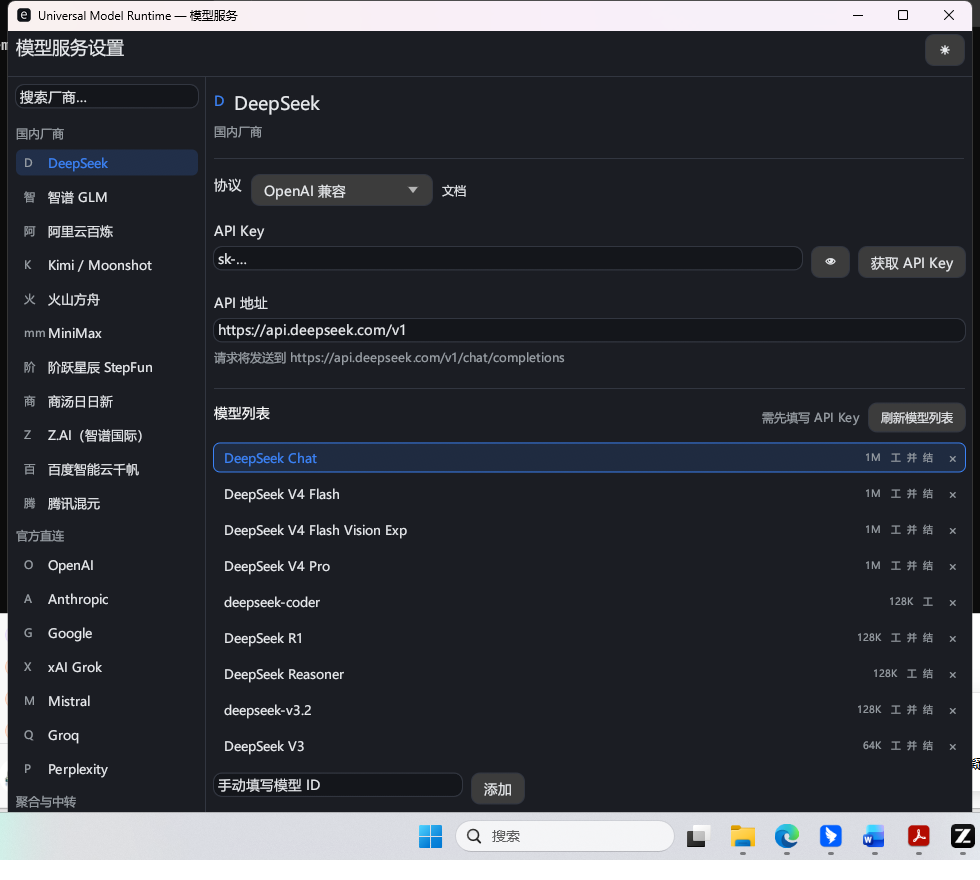
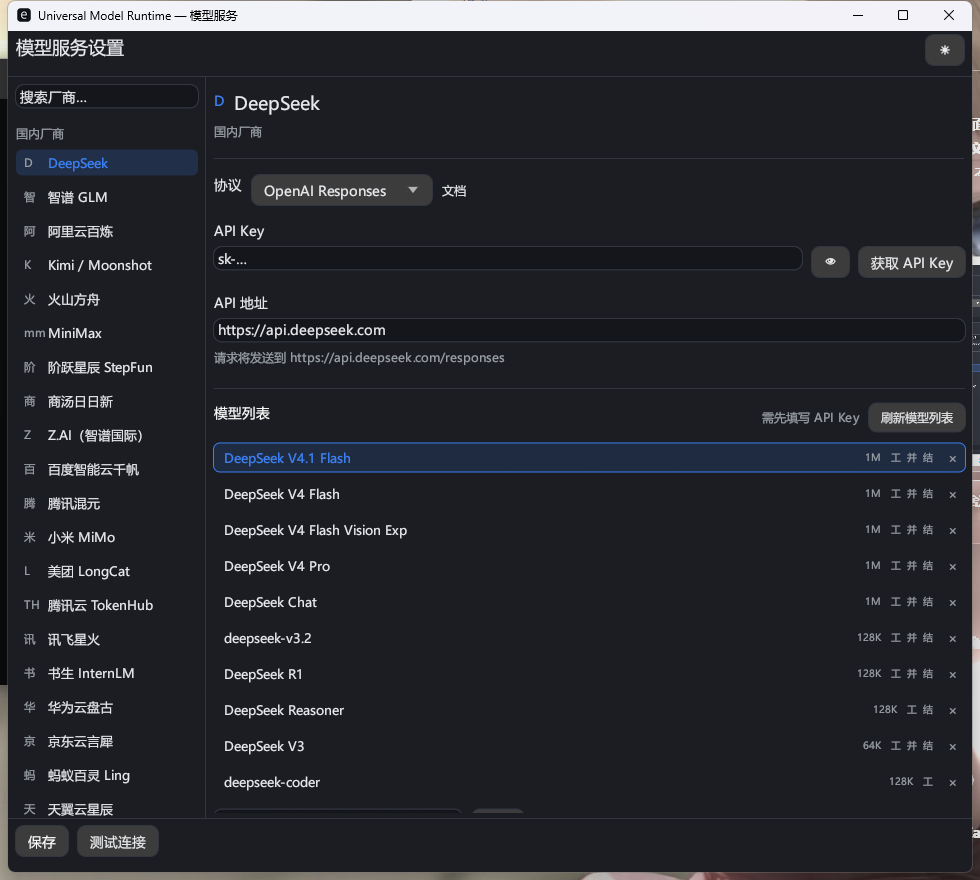
Sort recommended models by release date; refresh the README screenshot
The recommended list was sorted by context window, so retired models (whose
windows are also large) stayed on top: DeepSeek showed "DeepSeek Chat" first even
though that name was discontinued on 2026-07-24.

The upstream catalogue carries release_date for every row (8939/8939), but the
pipeline dropped it. It now flows RawModelRecord -> FieldCandidates -> ModelProfile
(serde-optional, so older catalogues still load), and the demo sorts
recommendations newest-first, with context window and then name as tie-breakers.
2597 of the 3615 catalogue entries have a date, so the effect is broad: DeepSeek
V4.1 Flash is now first and the retired names sink to the bottom.

Also replaced umber-ui-egui/examples/wizard-dark.png: the README was still showing
the September screenshot (OpenAI chat protocol, /v1 endpoint, old model order).

Verified: 38 suites / 299 tests (the models.dev parser test now asserts
release_date), clippy -D warnings clean, fmt clean, demo --selftest PASS.

diff --git a/umber-ui-egui/src/main.rs b/umber-ui-egui/src/main.rs
@@ -83,6 +83,12 @@ struct RealBackend {
     /// provider → 该 provider 暴露的模型 ID（规格 X.18 的 Deployment 表）。
     /// 推荐模型据此得出——**查表，不是硬编码模型名**。
     provider_models: HashMap<String, Vec<String>>,
+    /// canonical_id（规范化）→ 发布日期（ISO-8601）。
+    ///
+    /// 推荐列表按它倒序：上游目录会把退役型号也列着（当作历史知识），
+    /// 但「推荐」应该先给新的。没有这份数据就只能按上下文窗口排，
+    /// 结果是一堆早就退役的型号顶在最前面。
+    release_dates: HashMap<String, String>,
     /// 运行时本地库（配置落盘）与凭据回退链（密钥进系统钥匙串）。
     store: std::sync::Mutex<Option<StoreBundle>>,
 }
@@ -164,6 +170,7 @@ impl RealBackend {
             transport: Arc::new(RealHttpTransport::new(HttpConfig::default())),
             catalog,
             provider_models: load_provider_models_from_env(),
+            release_dates: load_release_dates_from_env(),
             store: std::sync::Mutex::new(store),
         }
     }
@@ -399,14 +406,24 @@ impl SettingsBackend for RealBackend {
         ids.sort();
         ids.dedup();
 
-        // 排序：上下文窗口大的在前（通常更强/更新），再按名字，保证稳定
+        // 排序：**先按发布日期倒序**（新的在前），同日期再比上下文窗口，最后按名字。
+        // 之前只按窗口排序，导致退役型号（窗口也很大）长期占据首屏。
         ids.sort_by(|a, b| {
+            let date = |id: &str| {
+                self.release_dates
+                    .get(&umber_model::normalize_model_id(id))
+                    .cloned()
+                    .unwrap_or_default()
+            };
             let ctx = |id: &str| {
                 crate::lookup(&self.catalog, id)
                     .and_then(|info| info.limits.context_window)
                     .unwrap_or(0)
             };
-            ctx(b).cmp(&ctx(a)).then_with(|| a.cmp(b))
+            date(b)
+                .cmp(&date(a))
+                .then_with(|| ctx(b).cmp(&ctx(a)))
+                .then_with(|| a.cmp(b))
         });
 
         ids.into_iter()
@@ -655,6 +672,33 @@ fn load_provider_models_from_env() -> HashMap<String, Vec<String>> {
             .push(deployment.model_id.clone());
     }
     index
+}
+
+/// 从构建产物加载 canonical_id → 发布日期（推荐排序用）。
+fn load_release_dates_from_env() -> HashMap<String, String> {
+    let Ok(path) = std::env::var("UMER_DEMO_CATALOG") else {
+        return HashMap::new();
+    };
+    let Ok(text) = std::fs::read_to_string(&path) else {
+        return HashMap::new();
+    };
+    let Ok(value) = serde_json::from_str::<serde_json::Value>(&text) else {
+        return HashMap::new();
+    };
+    let catalog_value = value.get("catalog").cloned().unwrap_or(value);
+    let Ok(catalog) = serde_json::from_value::<Catalog>(catalog_value) else {
+        return HashMap::new();
+    };
+    let mut dates = HashMap::new();
+    for profile in catalog.entries {
+        if let Some(date) = profile.release_date {
+            dates.insert(
+                umber_model::normalize_model_id(&profile.identity.canonical_id),
+                date,
+            );
+        }
+    }
+    dates
 }
 
 /// `--selftest`：不开窗口，直接用真实 Local DB + 凭据回退链走一遍

diff --git a/umber-data/src/sources/models_dev.rs b/umber-data/src/sources/models_dev.rs
@@ -108,6 +108,11 @@ impl SourceAdapter for ModelsDevAdapter {
                     .and_then(|d| d.as_str())
                     .map(str::to_string);
                 record.source_url = provider_doc.clone();
+                // 生命周期元数据：推荐列表靠它把旧型号沉底（预置不硬编码模型名）
+                record.release_date = model
+                    .get("release_date")
+                    .and_then(|d| d.as_str())
+                    .map(str::to_string);
 
                 record.context_window = model
                     .get("limit")
@@ -196,7 +201,8 @@ mod tests {
                         "structured_output": true,
                         "modalities": {"input":["text"],"output":["text"]},
                         "limit": {"context": 1000000, "output": 131072},
-                        "cost": {"input": 1.4, "output": 4.4, "cache_read": 0.26}
+                        "cost": {"input": 1.4, "output": 4.4, "cache_read": 0.26},
+                        "release_date": "2026-09-10"
                     }
                 }
             }
@@ -212,6 +218,8 @@ mod tests {
         assert_eq!(r.pricing.input_per_mtok, Some(1.4));
         assert_eq!(r.pricing.cached_input_per_mtok, Some(0.26));
         assert_eq!(r.capabilities.tool_call, Some(true));
+        // 发布日期是推荐排序的唯一依据（预置不硬编码模型名），必须解析出来
+        assert_eq!(r.release_date.as_deref(), Some("2026-09-10"));
         assert_eq!(r.capabilities.reasoning, Some(true));
         // 机制名原样保留，不推断档位
         assert_eq!(r.reasoning_effort_labels, vec!["toggle", "budget_tokens"]);

diff --git a/umber-data/src/pipeline.rs b/umber-data/src/pipeline.rs
@@ -81,6 +81,8 @@ pub struct FieldCandidates {
     pub pricing_web_search: Vec<FieldCandidate>,
     pub source_urls: Vec<String>,
     pub deprecated: bool,
+    /// 上游给出的发布日期（多来源取最新）。
+    pub release_date: Option<String>,
     pub evidence: Vec<Evidence>,
     pub aliases: Vec<String>,
 }
@@ -211,6 +213,7 @@ pub fn normalize(record: &RawModelRecord) -> FieldCandidates {
         pricing_web_search,
         source_urls: record.source_url.iter().cloned().collect(),
         deprecated: record.deprecated,
+        release_date: record.release_date.clone(),
         evidence,
         aliases: record.raw_aliases.clone(),
     }
@@ -431,6 +434,8 @@ pub fn resolve_group(group: &[FieldCandidates]) -> (ModelProfile, bool) {
         .collect();
     // 已废弃模型在上下文上通常也是旧的：标记冲突但不影响裁决
     let _ = deprecated;
+    // 多来源日期取**最新**的（ISO-8601 可直接字典序比较）。
+    let release_date = group.iter().filter_map(|c| c.release_date.clone()).max();
 
     let profile = ModelProfile {
         identity,
@@ -459,6 +464,7 @@ pub fn resolve_group(group: &[FieldCandidates]) -> (ModelProfile, bool) {
         structured_output: Default::default(),
         parameter_support: ParameterSupport::with_supported(&parameters),
         pricing: Some(pricing),
+        release_date,
         compatibility: CompatibilityProfile::default(),
         evidence,
     };

diff --git a/umber-data/src/record.rs b/umber-data/src/record.rs
@@ -112,6 +112,11 @@ pub struct RawModelRecord {
     pub supported_parameters: Vec<String>,
     pub pricing: RawPricing,
     pub deprecated: bool,
+    /// 上游给出的发布日期（ISO-8601，如 `2026-09-10`）。
+    ///
+    /// 预置**不硬编码模型名**，所以"哪些模型是新的"只能靠这份数据判断：
+    /// 推荐列表按它倒序，旧型号自然沉底（而不是靠一份手工白名单）。
+    pub release_date: Option<String>,
     /// 上游给出的原始数据来源链接（审计用）。
     pub source_url: Option<String>,
     /// 上游声明的别名（目前仅官方覆盖层提供）——用于身份匹配的 alias 表（§9.1）。
@@ -141,6 +146,7 @@ impl RawModelRecord {
             supported_parameters: Vec::new(),
             pricing: RawPricing::default(),
             deprecated: false,
+            release_date: None,
             source_url: None,
             raw_aliases: Vec::new(),
             retrieved_at_unix: now_unix,

diff --git a/umber-model/src/model.rs b/umber-model/src/model.rs
@@ -46,6 +46,9 @@ pub struct ModelProfile {
     pub parameter_support: ParameterSupport,
     #[serde(default, skip_serializing_if = "Option::is_none")]
     pub pricing: Option<Pricing>,
+    /// 上游给出的发布日期（ISO-8601）。推荐列表按它倒序，旧型号自然沉底。
+    #[serde(default, skip_serializing_if = "Option::is_none")]
+    pub release_date: Option<String>,
     #[serde(default)]
     pub compatibility: CompatibilityProfile,
     #[serde(default)]
@@ -230,6 +233,7 @@ mod tests {
             structured_output: StructuredOutputInfo::default(),
             parameter_support: ParameterSupport::default(),
             pricing: None,
+            release_date: None,
             compatibility: CompatibilityProfile::default(),
             evidence: vec![],
         }

diff --git a/umber-model/src/registry.rs b/umber-model/src/registry.rs
@@ -84,6 +84,7 @@ impl ModelRegistry {
                 structured_output: Default::default(),
                 parameter_support: Default::default(),
                 pricing: None,
+                release_date: None,
                 compatibility: Default::default(),
                 evidence: vec![],
             });
@@ -184,6 +185,7 @@ mod tests {
             structured_output: Default::default(),
             parameter_support: Default::default(),
             pricing: None,
+            release_date: None,
             compatibility: Default::default(),
             evidence: vec![],
         };

diff --git a/umber-ui/tests/host_journey.rs b/umber-ui/tests/host_journey.rs
@@ -111,6 +111,7 @@ fn host_journey_from_settings_to_streamed_answer() {
             structured_output: Default::default(),
             parameter_support: Default::default(),
             pricing: None,
+            release_date: None,
             compatibility: Default::default(),
             evidence: vec![],
         }],

diff --git a/umber-data/src/store.rs b/umber-data/src/store.rs
@@ -410,6 +410,7 @@ mod tests {
             structured_output: Default::default(),
             parameter_support: ParameterSupport::default(),
             pricing: None,
+            release_date: None,
             compatibility: Default::default(),
             evidence: vec![],
         }
